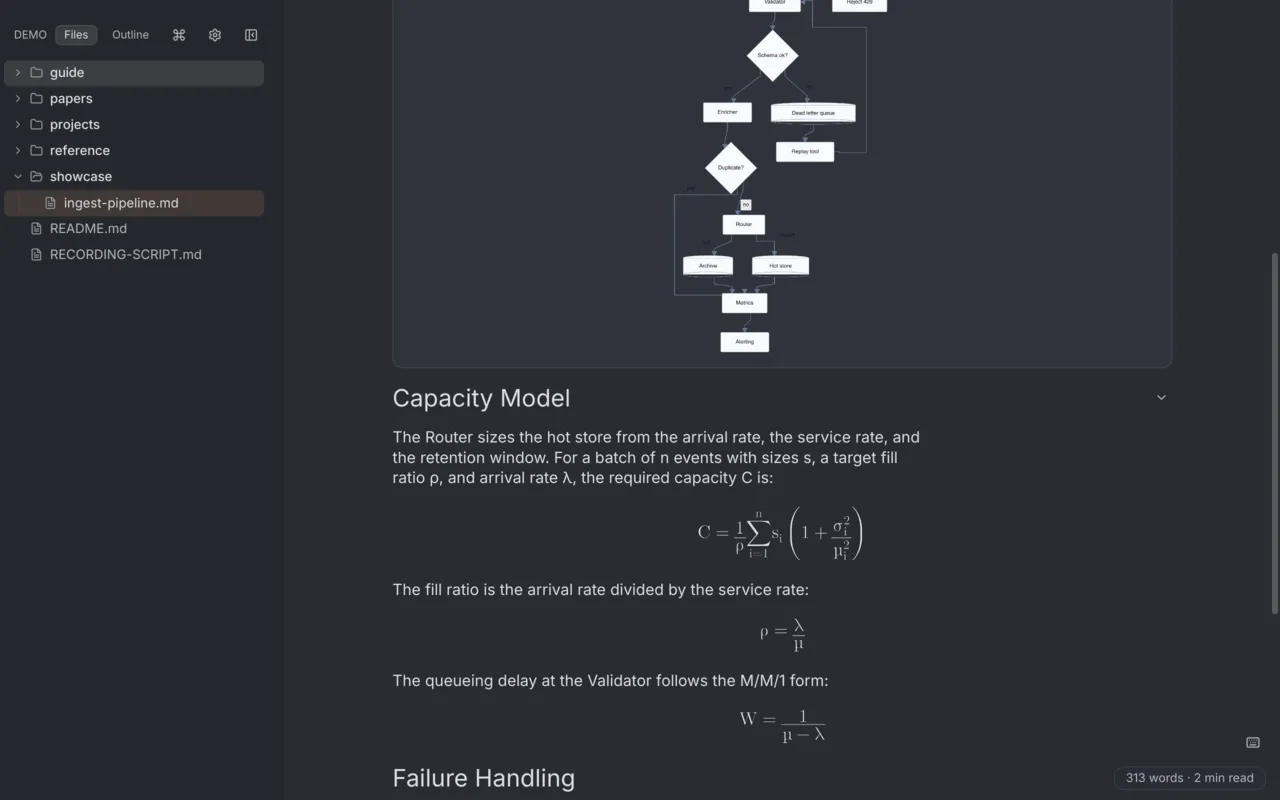
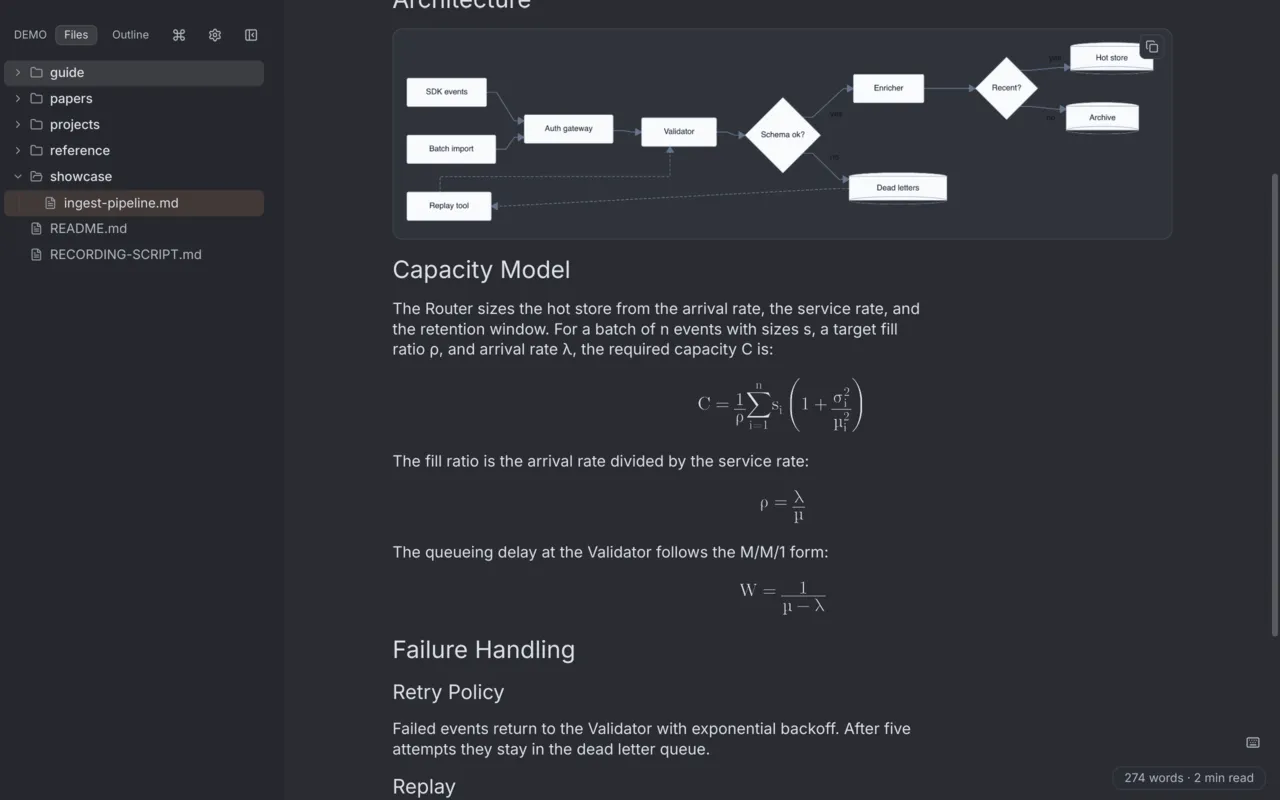
demo: record scripts need no key automation; LR pipeline diagram; storyboard retake

diff --git a/demo/showcase/ingest-pipeline.md b/demo/showcase/ingest-pipeline.md
@@ -5,33 +5,25 @@ rmdv renders a dense diagram, a display equation, and a deep heading tree.
 
 ## Overview
 
-Events arrive from three sources, pass through validation and enrichment, and
+Events arrive from two sources, pass through validation and enrichment, and
 land in either the hot store or the archive. The diagram below shows every
 stage and the retry paths between them.
 
 ## Architecture
 
 ```mermaid
-flowchart TB
-    SDK[Web and Mobile SDK] --> LB[Load balancer]
+flowchart LR
+    SDK[SDK events] --> AUTH[Auth gateway]
     BATCH[Batch import] --> AUTH
-    LB --> AUTH[Auth gateway]
-    AUTH --> RATE{Under rate limit?}
-    RATE -- no --> REJ[Reject 429]
-    RATE -- yes --> VAL[Validator]
-    VAL --> SCHEMA{Schema ok?}
-    SCHEMA -- no --> DLQ[(Dead letter queue)]
-    SCHEMA -- yes --> ENR[Enricher]
-    ENR --> DEDUP{Duplicate?}
-    DEDUP -- yes --> MET[Metrics]
-    DEDUP -- no --> ROUTE[Router]
-    ROUTE -- recent --> HOT[(Hot store)]
-    ROUTE -- old --> ARC[(Archive)]
-    DLQ --> REPLAY[Replay tool]
-    REPLAY --> VAL
-    HOT --> MET
-    ARC --> MET
-    MET --> ALERT[Alerting]
+    AUTH --> VAL[Validator]
+    VAL --> OK{Schema ok?}
+    OK -- no --> DLQ[(Dead letters)]
+    OK -- yes --> ENR[Enricher]
+    ENR --> ROUTE{Recent?}
+    ROUTE -- yes --> HOT[(Hot store)]
+    ROUTE -- no --> ARC[(Archive)]
+    DLQ -.-> REPLAY[Replay tool]
+    REPLAY -.-> VAL
 ```
 
 ## Capacity Model
